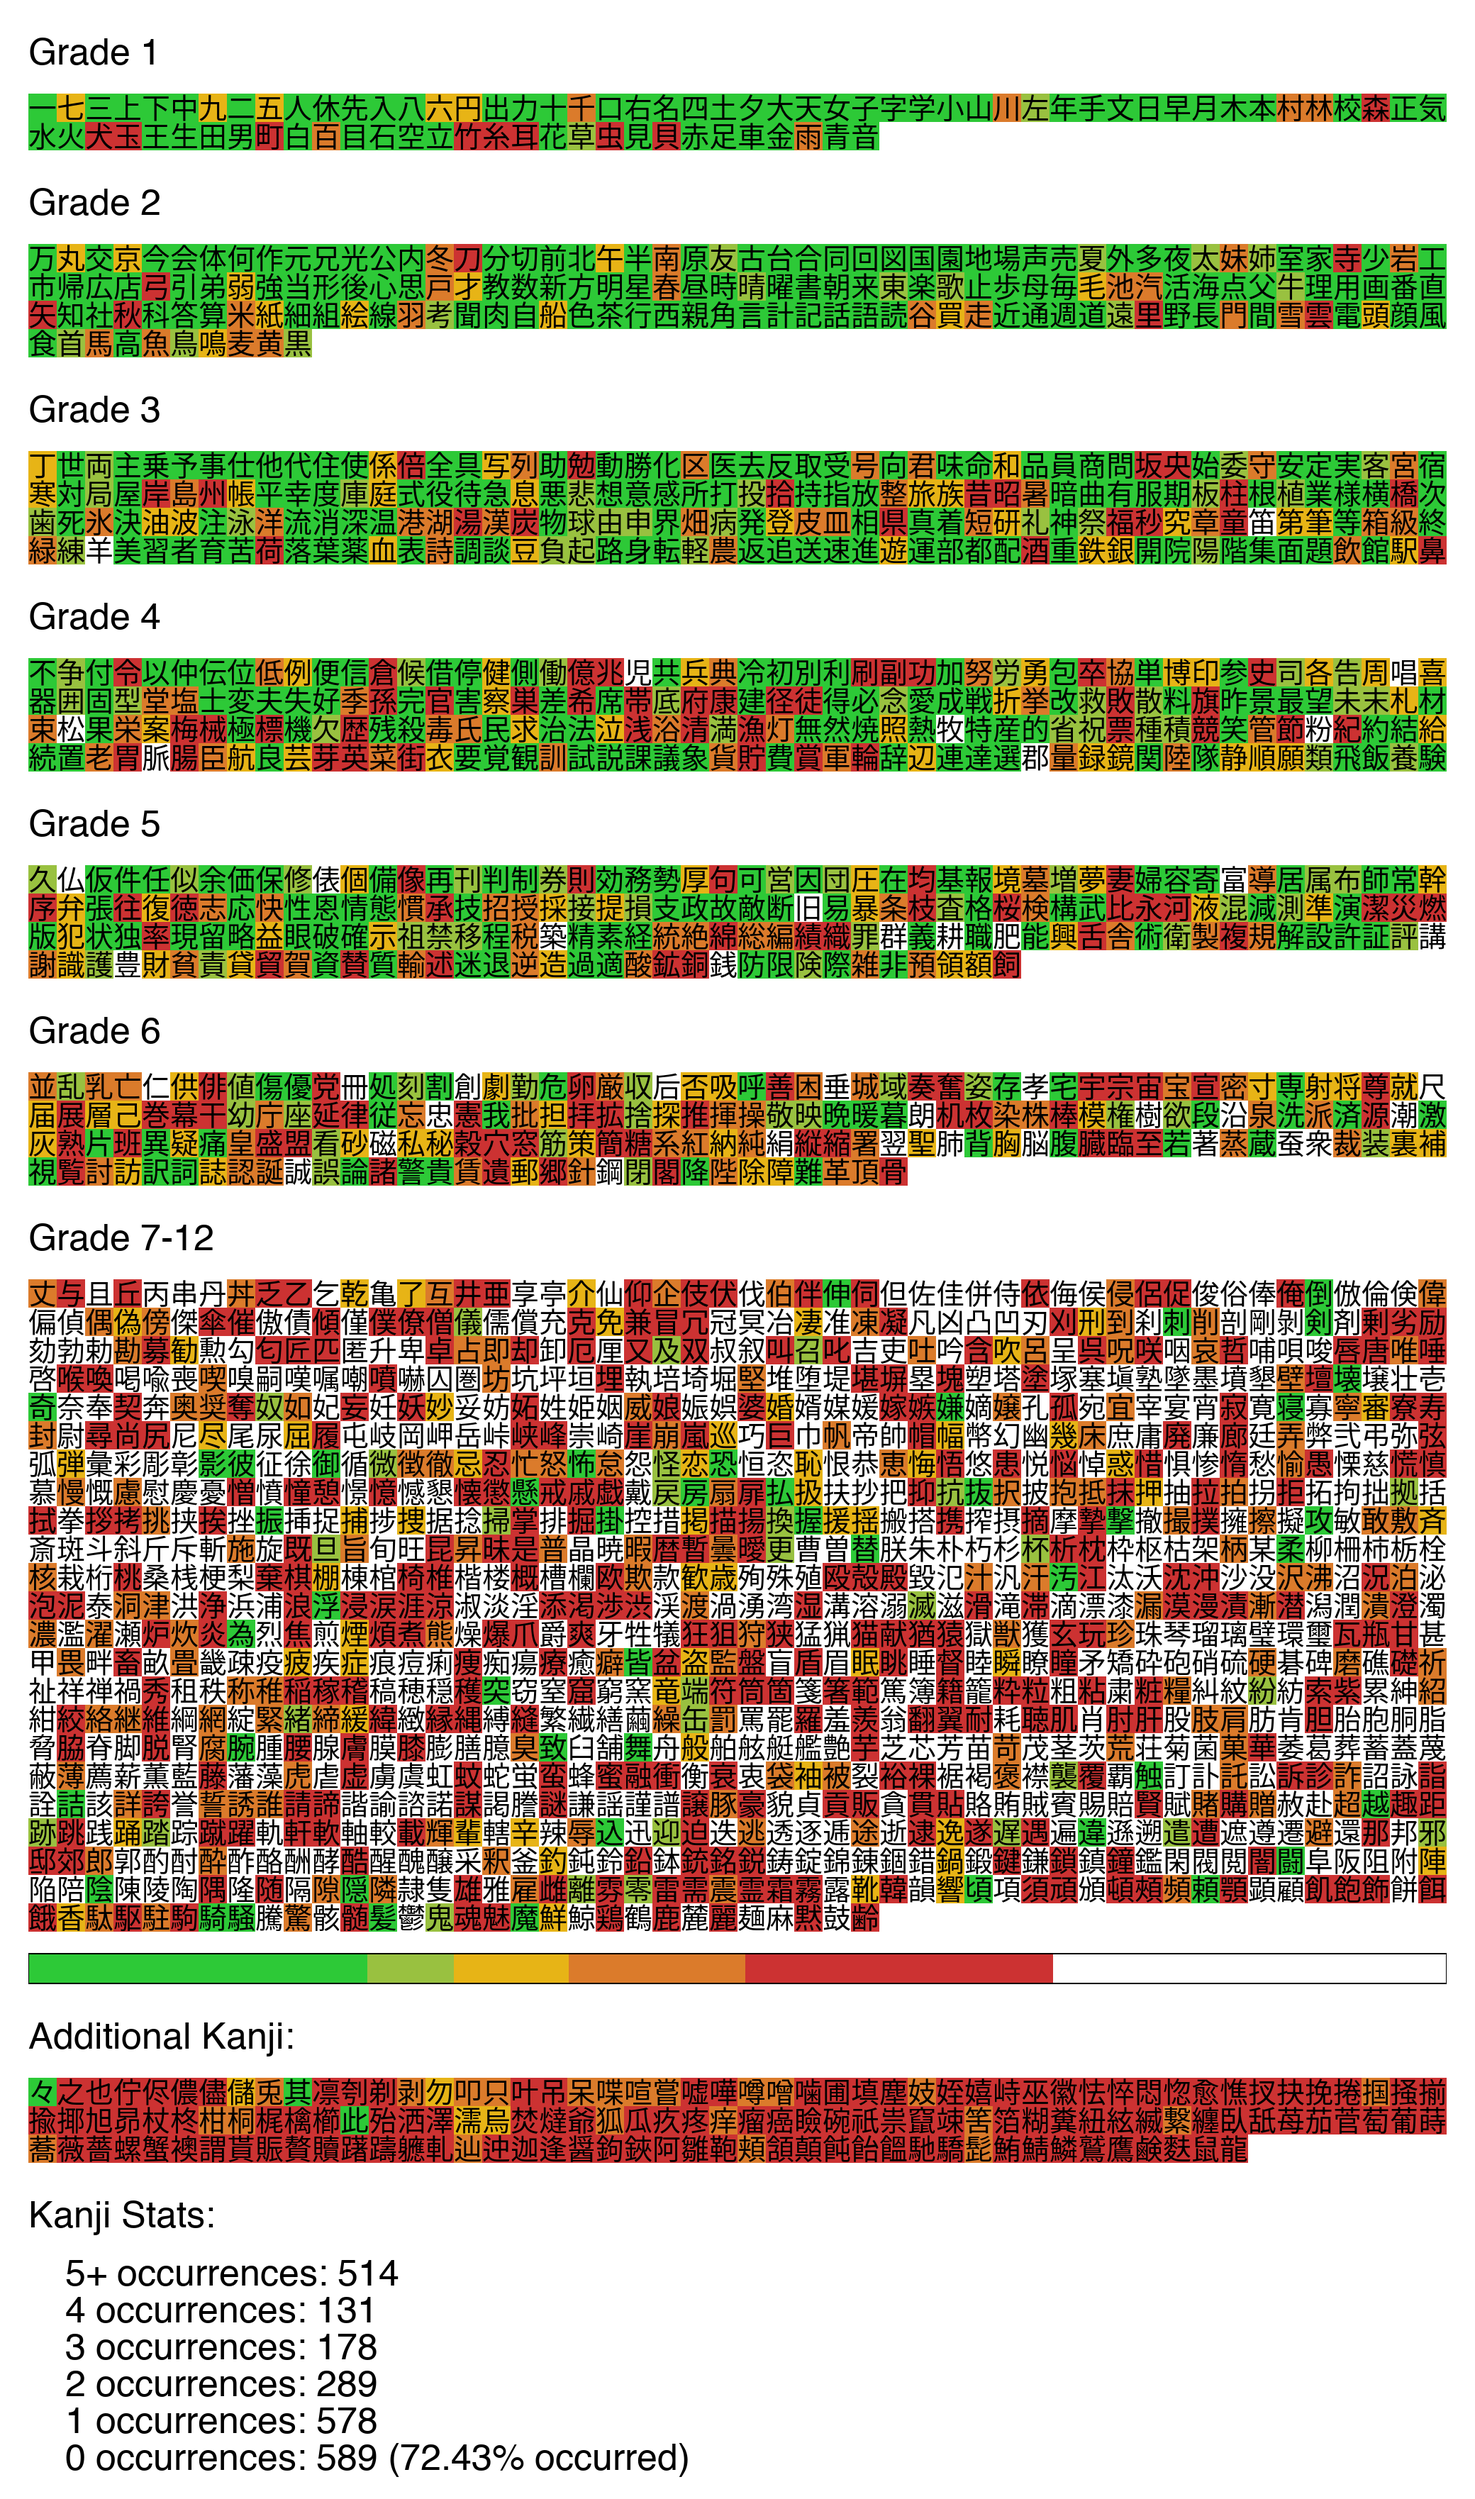
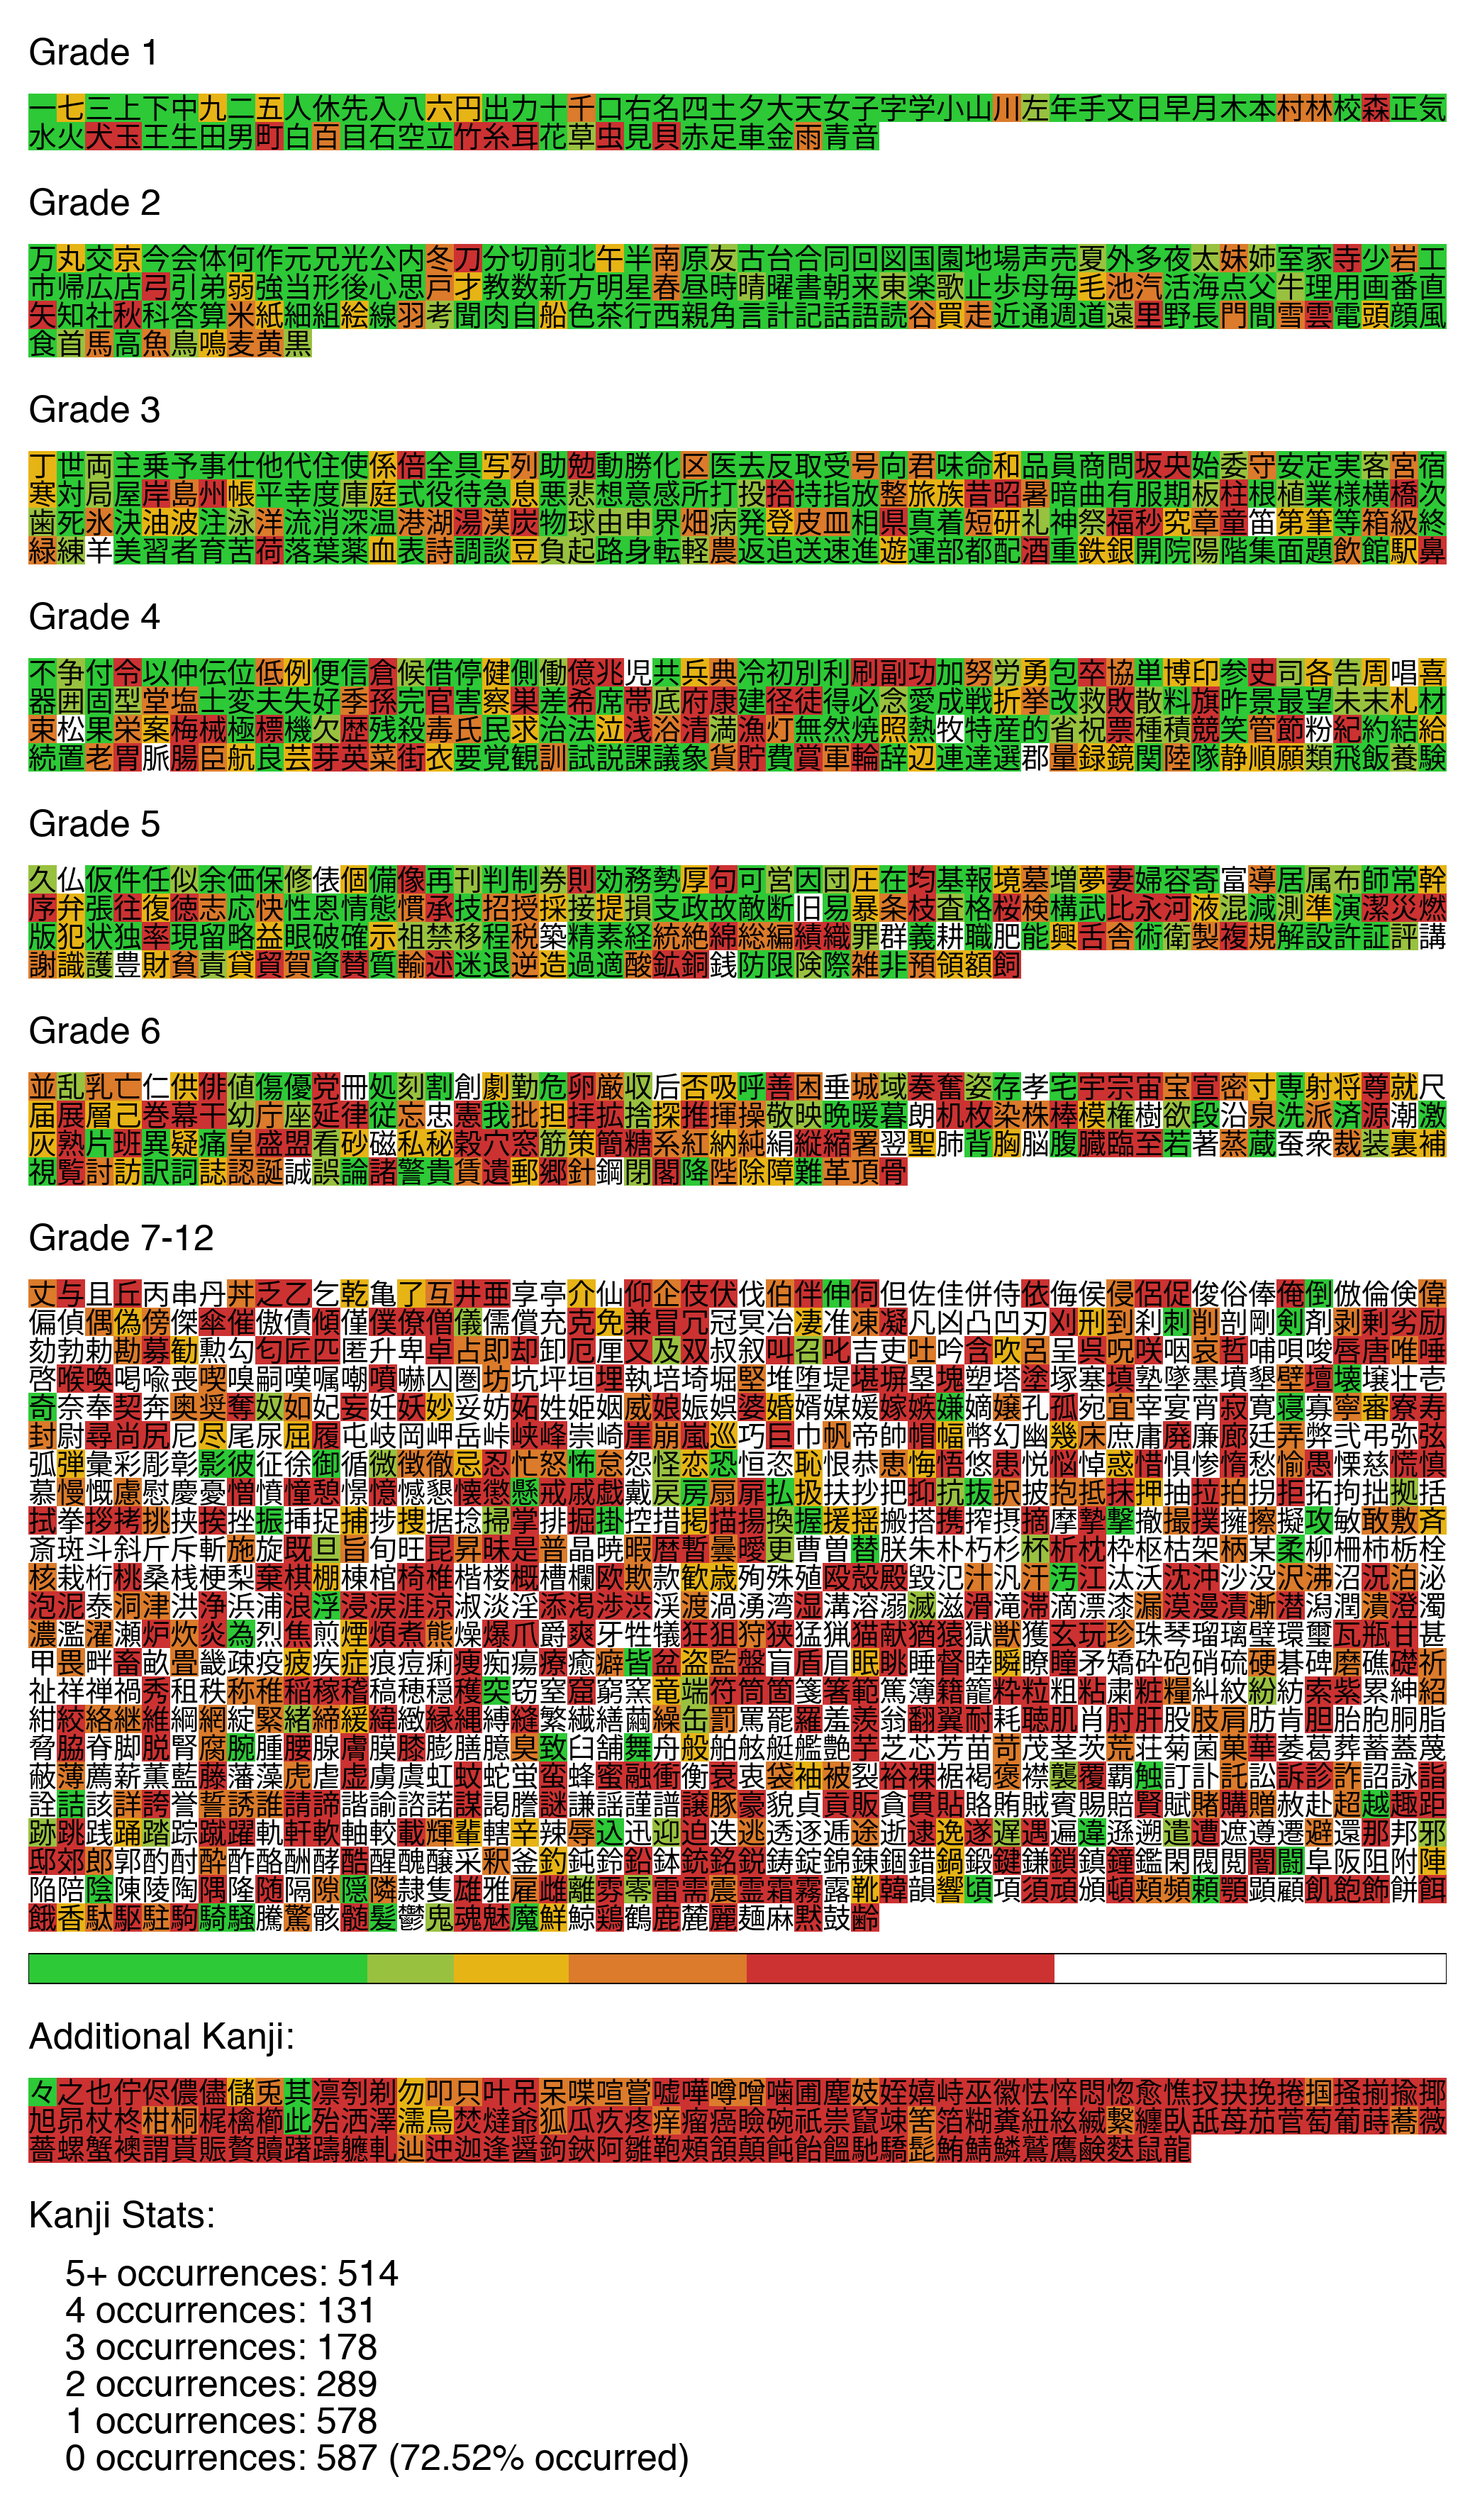
update characters used in jouyou kanji

diff --git a/kanjigrid/gradings.py b/kanjigrid/gradings.py
@@ -12,10 +12,11 @@ class Gradings:
         return allset
 
 
+# https://en.wikipedia.org/wiki/List_of_j%C5%8Dy%C5%8D_kanji
 class Jouyou(Gradings):
     """docstring for Jouyou"""
 
-    def __init__(self):
+    def __init__(self, use_correct_kanji=False):
         super(Jouyou, self).__init__()
         self.grade1 = {
             "Name": "Grade 1",
@@ -56,7 +57,7 @@ class Jouyou(Gradings):
         self.gradeS = {
             "Name": "Grade 7-12",
             "Kanji": set(
-                "丈与且丘丙串丹丼乏乙乞乾亀了互井亜享亭介仙仰企伎伏伐伯伴伸伺但佐佳併侍依侮侯侵侶促俊俗俸俺倒倣倫倹偉偏偵偶偽傍傑傘催傲債傾僅僕僚僧儀儒償充克免兼冒冗冠冥冶凄准凍凝凡凶凸凹刃刈刑到刹刺削剖剛剝剣剤剰劣励劾勃勅勘募勧勲勾匂匠匹匿升卑卓占即却卸厄厘又及双叔叙叫召吉吏吐吟含吹呂呈呉呪咲咽哀哲哺唄唆唇唐唯唾啓喉喚喝喩喪喫嗅嗣嘆嘱嘲噴嚇囚圏坊坑坪垣埋執培埼堀堅堆堕堤堪塀塁塊塑塔塗塚塞塡塾墜墨墳墾壁壇壊壌壮壱奇奈奉契奔奥奨奪奴如妃妄妊妖妙妥妨妬姓姫姻威娘娠娯婆婚婿媒媛嫁嫉嫌嫡嬢孔孤宛宜宰宴宵寂寛寝寡寧審寮寿封尉尋尚尻尼尽尾尿屈履屯岐岡岬岳峠峡峰崇崎崖崩嵐巡巧巨巾帆帝帥帽幅幣幻幽幾床庶庸廃廉廊廷弄弊弐弔弥弦弧弾彙彩彫彰影彼征徐御循微徴徹忌忍忙怒怖怠怨怪恋恐恒恣恥恨恭恵悔悟悠患悦悩悼惑惜惧惨惰愁愉愚慄慈慌慎慕慢慨慮慰慶憂憎憤憧憩憬憶憾懇懐懲懸戒戚戯戴戻房扇扉払扱扶抄把抑抗抜択披抱抵抹押抽拉拍拐拒拓拘拙拠括拭拳拶拷挑挟挨挫振挿捉捕捗捜据捻掃掌排掘掛控措掲描揚換握援揺搬搭携搾摂摘摩摯撃撤撮撲擁擦擬攻敏敢敷斉斎斑斗斜斤斥斬施旋既旦旨旬旺昆昇昧是普晶暁暇暦暫曇曖更曹曽替朕朱朴朽杉杯析枕枠枢枯架柄某柔柳柵柿栃栓核栽桁桃桑桟梗梨棄棋棚棟棺椅椎楷楼概槽欄欧欺款歓歳殉殊殖殴殻殿毀氾汁汎汗汚江汰沃沈沖沙没沢沸沼況泊泌泡泥泰洞津洪浄浜浦浪浮浸涙涯涼淑淡淫添渇渉渋渓渡渦湧湾湿溝溶溺滅滋滑滝滞滴漂漆漏漠漫漬漸潜潟潤潰澄濁濃濫濯瀬炉炊炎為烈焦煎煙煩煮熊燥爆爪爵爽牙牲犠狂狙狩狭猛猟猫献猶猿獄獣獲玄玩珍珠琴瑠璃璧環璽瓦瓶甘甚甲畏畔畜畝畳畿疎疫疲疾症痕痘痢痩痴瘍療癒癖皆盆盗監盤盲盾眉眠眺睡督睦瞬瞭瞳矛矯砕砲硝硫硬碁碑磨礁礎祈祉祥禅禍秀租秩称稚稲稼稽稿穂穏穫突窃窒窟窮窯竜端符筒箇箋箸範篤簿籍籠粋粒粗粘粛粧糧糾紋紛紡索紫累紳紹紺絞絡継維綱網綻緊緒締緩緯緻縁縄縛縫繁繊繕繭繰缶罰罵罷羅羞羨翁翻翼耐耗聴肌肖肘肝股肢肩肪肯胆胎胞胴脂脅脇脊脚脱腎腐腕腫腰腺膚膜膝膨膳臆臭致臼舗舞舟般舶舷艇艦艶芋芝芯芳苗苛茂茎茨荒荘菊菌菓華萎葛葬蓄蓋蔑蔽薄薦薪薫藍藤藩藻虎虐虚虜虞虹蚊蛇蛍蛮蜂蜜融衝衡衰衷袋袖被裂裕裸裾褐褒襟襲覆覇触訂訃託訟訴診詐詔詠詣詮詰該詳誇誉誓誘誰請諦諧諭諮諾謀謁謄謎謙謡謹譜譲豚豪貌貞貢販貪貫貼賂賄賊賓賜賠賢賦賭購贈赦赴超越趣距跡跳践踊踏踪蹴躍軌軒軟軸較載輝輩轄辛辣辱込迅迎迫迭逃透逐逓途逝逮逸遂遅遇遍違遜遡遣遭遮遵遷避還那邦邪邸郊郎郭酌酎酔酢酪酬酵酷醒醜醸采釈釜釣鈍鈴鉛鉢銃銘鋭鋳錠錦錬錮錯鍋鍛鍵鎌鎖鎮鐘鑑閑閥閲闇闘阜阪阻附陣陥陪陰陳陵陶隅隆随隔隙隠隣隷隻雄雅雇雌離雰零雷需震霊霜霧露靴韓韻響頃項須頑頒頓頰頻頼顎顕顧飢飽飾餅餌餓香駄駆駐駒騎騒騰驚骸髄髪鬱鬼魂魅魔鮮鯨鶏鶴鹿麓麗麺麻黙鼓齢叱"
+                "丈与且丘丙串丹丼乏乙乞乾亀了互井亜享亭介仙仰企伎伏伐伯伴伸伺但佐佳併侍依侮侯侵侶促俊俗俸俺倒倣倫倹偉偏偵偶偽傍傑傘催傲債傾僅僕僚僧儀儒償充克免兼冒冗冠冥冶凄准凍凝凡凶凸凹刃刈刑到刹刺削剖剛剝剣剤剰劣励劾勃勅勘募勧勲勾匂匠匹匿升卑卓占即却卸厄厘又及双叔叙叫召吉吏吐吟含吹呂呈呉呪咲咽哀哲哺唄唆唇唐唯唾啓喉喚喝喩喪喫嗅嗣嘆嘱嘲噴嚇囚圏坊坑坪垣埋執培埼堀堅堆堕堤堪塀塁塊塑塔塗塚塞塡塾墜墨墳墾壁壇壊壌壮壱奇奈奉契奔奥奨奪奴如妃妄妊妖妙妥妨妬姓姫姻威娘娠娯婆婚婿媒媛嫁嫉嫌嫡嬢孔孤宛宜宰宴宵寂寛寝寡寧審寮寿封尉尋尚尻尼尽尾尿屈履屯岐岡岬岳峠峡峰崇崎崖崩嵐巡巧巨巾帆帝帥帽幅幣幻幽幾床庶庸廃廉廊廷弄弊弐弔弥弦弧弾彙彩彫彰影彼征徐御循微徴徹忌忍忙怒怖怠怨怪恋恐恒恣恥恨恭恵悔悟悠患悦悩悼惑惜惧惨惰愁愉愚慄慈慌慎慕慢慨慮慰慶憂憎憤憧憩憬憶憾懇懐懲懸戒戚戯戴戻房扇扉払扱扶抄把抑抗抜択披抱抵抹押抽拉拍拐拒拓拘拙拠括拭拳拶拷挑挟挨挫振挿捉捕捗捜据捻掃掌排掘掛控措掲描揚換握援揺搬搭携搾摂摘摩摯撃撤撮撲擁擦擬攻敏敢敷斉斎斑斗斜斤斥斬施旋既旦旨旬旺昆昇昧是普晶暁暇暦暫曇曖更曹曽替朕朱朴朽杉杯析枕枠枢枯架柄某柔柳柵柿栃栓核栽桁桃桑桟梗梨棄棋棚棟棺椅椎楷楼概槽欄欧欺款歓歳殉殊殖殴殻殿毀氾汁汎汗汚江汰沃沈沖沙没沢沸沼況泊泌泡泥泰洞津洪浄浜浦浪浮浸涙涯涼淑淡淫添渇渉渋渓渡渦湧湾湿溝溶溺滅滋滑滝滞滴漂漆漏漠漫漬漸潜潟潤潰澄濁濃濫濯瀬炉炊炎為烈焦煎煙煩煮熊燥爆爪爵爽牙牲犠狂狙狩狭猛猟猫献猶猿獄獣獲玄玩珍珠琴瑠璃璧環璽瓦瓶甘甚甲畏畔畜畝畳畿疎疫疲疾症痕痘痢痩痴瘍療癒癖皆盆盗監盤盲盾眉眠眺睡督睦瞬瞭瞳矛矯砕砲硝硫硬碁碑磨礁礎祈祉祥禅禍秀租秩称稚稲稼稽稿穂穏穫突窃窒窟窮窯竜端符筒箇箋箸範篤簿籍籠粋粒粗粘粛粧糧糾紋紛紡索紫累紳紹紺絞絡継維綱網綻緊緒締緩緯緻縁縄縛縫繁繊繕繭繰缶罰罵罷羅羞羨翁翻翼耐耗聴肌肖肘肝股肢肩肪肯胆胎胞胴脂脅脇脊脚脱腎腐腕腫腰腺膚膜膝膨膳臆臭致臼舗舞舟般舶舷艇艦艶芋芝芯芳苗苛茂茎茨荒荘菊菌菓華萎葛葬蓄蓋蔑蔽薄薦薪薫藍藤藩藻虎虐虚虜虞虹蚊蛇蛍蛮蜂蜜融衝衡衰衷袋袖被裂裕裸裾褐褒襟襲覆覇触訂訃託訟訴診詐詔詠詣詮詰該詳誇誉誓誘誰請諦諧諭諮諾謀謁謄謎謙謡謹譜譲豚豪貌貞貢販貪貫貼賂賄賊賓賜賠賢賦賭購贈赦赴超越趣距跡跳践踊踏踪蹴躍軌軒軟軸較載輝輩轄辛辣辱込迅迎迫迭逃透逐逓途逝逮逸遂遅遇遍違遜遡遣遭遮遵遷避還那邦邪邸郊郎郭酌酎酔酢酪酬酵酷醒醜醸采釈釜釣鈍鈴鉛鉢銃銘鋭鋳錠錦錬錮錯鍋鍛鍵鎌鎖鎮鐘鑑閑閥閲闇闘阜阪阻附陣陥陪陰陳陵陶隅隆随隔隙隠隣隷隻雄雅雇雌離雰零雷需震霊霜霧露靴韓韻響頃項須頑頒頓頰頻頼顎顕顧飢飽飾餅餌餓香駄駆駐駒騎騒騰驚骸髄髪鬱鬼魂魅魔鮮鯨鶏鶴鹿麓麗麺麻黙鼓齢𠮟"
             ),
         }
         self.gradings = {
@@ -68,6 +69,16 @@ class Jouyou(Gradings):
             6: self.grade6,
             7: self.gradeS,
         }
+        if not use_correct_kanji:
+            changedict = {
+                "𠮟": "叱",
+                "塡": "填",
+                "剝": "剥",
+                "頰": "頬",
+            }
+            for k, v in changedict.items():
+                self.gradeS["Kanji"].discard(k)
+                self.gradeS["Kanji"].update(v)
 
 
 # source: http://www.tanos.co.uk/jlpt/skills/kanji/

diff --git a/test.py b/test.py
@@ -9,3 +9,9 @@ with open("test.txt", "r", encoding="utf-8") as f:
 gridder.feed_text(data)
 grid = gridder.make_grid(grading, outside_of_grading=True, stats=True, bar_graph=True)
 grid.save("test.png")
+if "𠮟" in grading.get_all_in_grading():
+    print("𠮟")
+if "塡" in grading.get_all_in_grading():
+    print("塡")
+if "叱" in grading.get_all_in_grading():
+    print("叱 as replacement")

diff --git a/kanjigrid/__init__.py b/kanjigrid/__init__.py
@@ -1,3 +1,5 @@
 from .kanjigrid import Gridder
 from .gradings import *
-__version__ = '0.0.4'
+from importlib.metadata import version
+
+__version__ = version(__package__)
